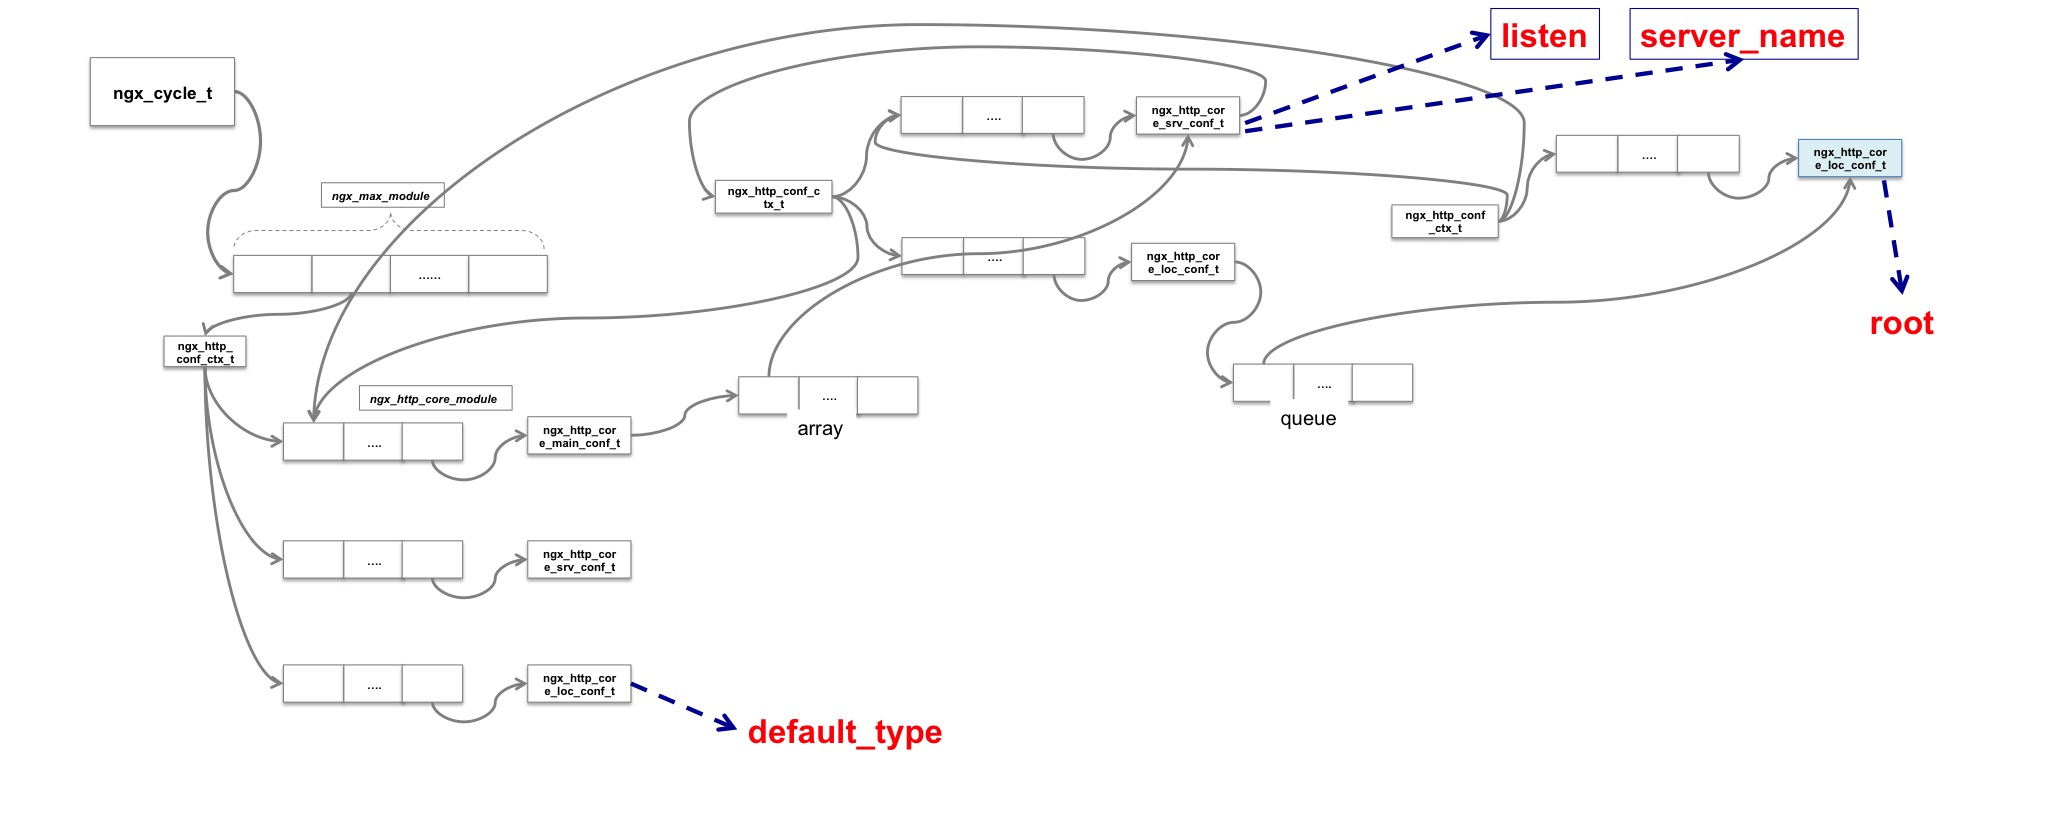
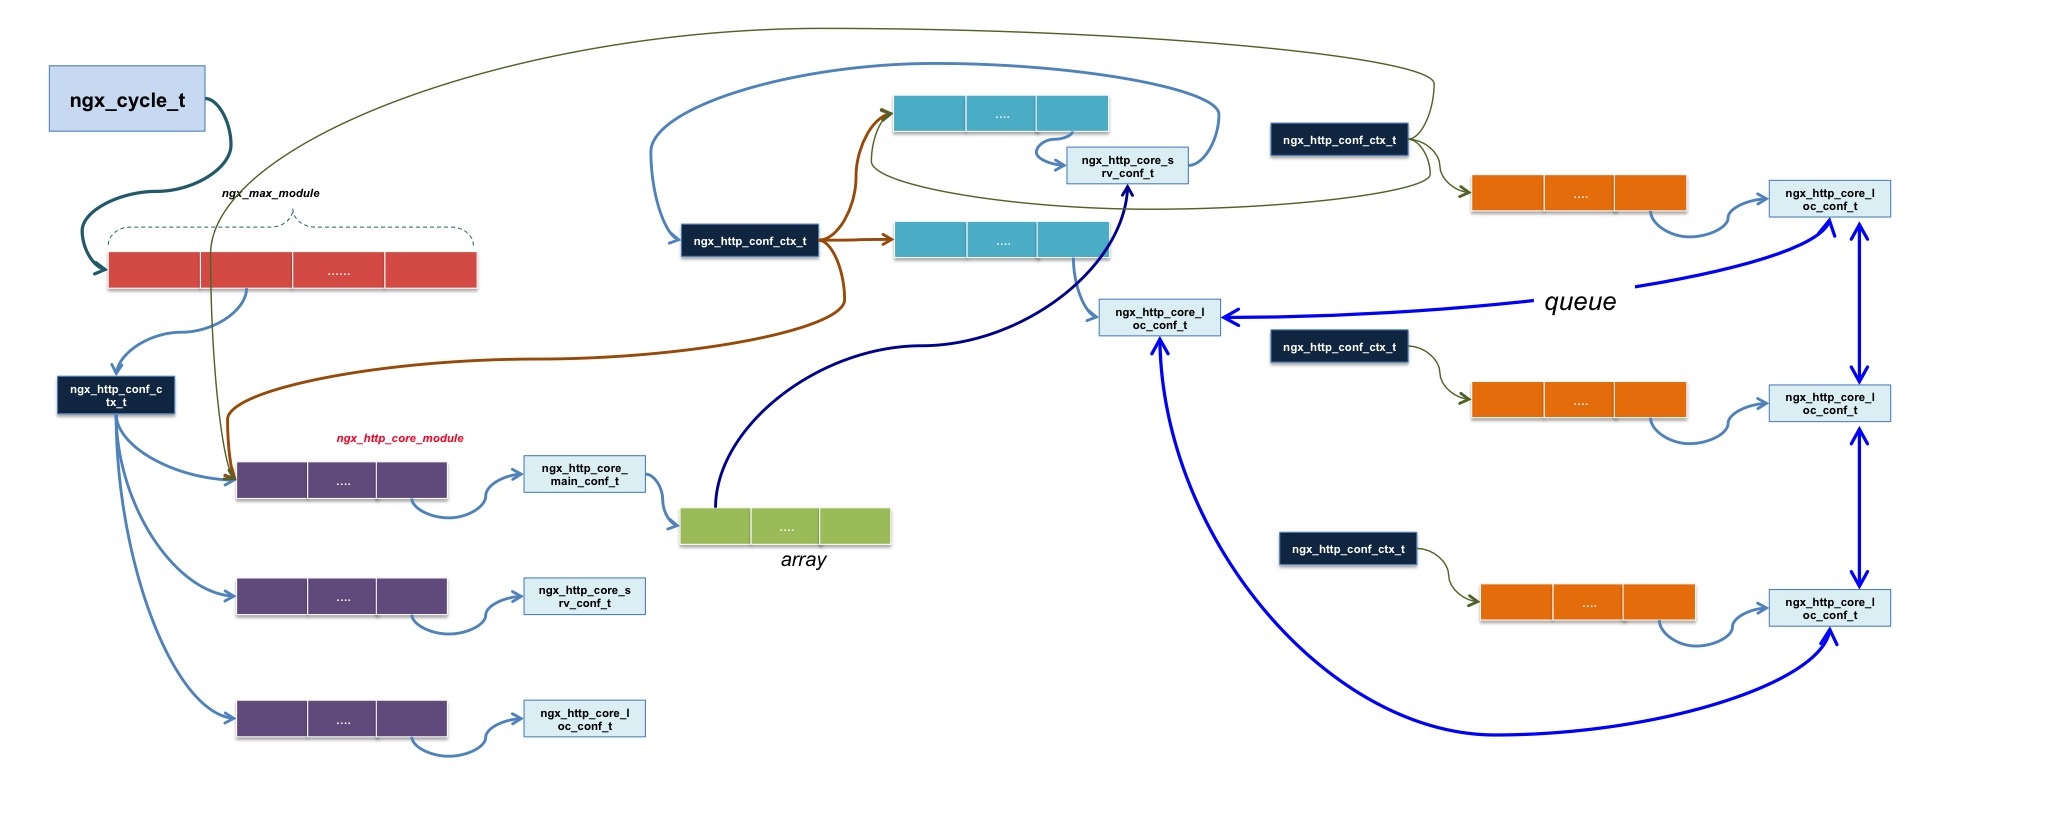
add

diff --git a/_posts/2014-10-05-nginx源码五(1)：nginx配置文件加载分析.md b/_posts/2014-10-05-nginx源码五(1)：nginx配置文件加载分析.md
@@ -143,7 +143,7 @@ keepalive_timeout  65;
     - conf.cmd_type = NGX_MAIN_CONF;
 - `5. 分析到第一个指令"worker_processes"， 遍历查找所有 NGX_CORE_MODULE 插件，指令类型是 NGX_MAIN_CONF 的指令，执行指令对应的handle`
 - `6. 对于"worker_processes"， 因为前面已经创建配置信息，配置信息获取方式如下图，所以这里可以直接更新到ngx_core_conf_t类型的结构体里`
-![ngx_http_conf](/images/nginx/ngx_conf.jpg)
+![ngx_http_conf](/images/nginx/ngx_conf1.jpg)
 
 - `7. 配置文件继续分析，分析到event指令 和 "{"`
 - `8. 调起event指令的处理handle "ngx_events_block"`
@@ -186,9 +186,14 @@ static ngx_command_t  ngx_events_commands[] = {
       NULL },
 {% endhighlight %}
 
-- 理论上，nginx可以配置无限个server，每个server又可以配置无限多个location。那么我们考虑一个请求过来，先要找到对应的server，在找到对应的location，根据location的配置确定处理逻辑；配置信息的存储实际第一步是按照下图的关系做了原始存储，那么存储的流程是什么样的呢？  我们接着上面的配置文件做分析
+- 理论上，nginx可以配置无限个server，每个server又可以配置无限多个location。那么我们考虑一个请求过来，先要找到对应的server，在找到对应的location，根据location的配置确定处理逻辑；配置信息的存储实际第一步是按照下图的关系做了原始存储，那么存储的流程是什么样的呢？  
 
-![ngx_http_conf](/images/nginx/ngx_http_conf.jpg)
+![ngx_http_conf](/images/nginx/ngx_http_conf3.jpg)
+
+- 下面一张图是对应各个分析到http{}， server{}， location{} 指令的结构图， 后面接着上面的配置文件做分析
+
+![ngx_http_conf](/images/nginx/ngx_http_conf4.jpg)
+
 
 - `12. nginx分析到http指令，执行http的指令 ngx_http_block`
 {% highlight c %}
@@ -244,7 +249,7 @@ static ngx_command_t  ngx_http_commands[] = {
 
 下面，我们在画一张图来标识用户指令配置的存储位置
 
-![ngx_http_conf](/images/nginx/ngx_conf3.jpg)
+![ngx_http_conf](/images/nginx/ngx_conf5.jpg)
 
 到这一步，我们已经知道 解析完 http{} 这个block后，存储到配置中；图中也标识出来，通过`ngx_http_core_module`对应的配置管理多个server的conf，那么下一步需要做的是
 1. 解决如何通过host快速找到server以及server的所有配置信息
@@ -252,7 +257,7 @@ static ngx_command_t  ngx_http_commands[] = {
 
 **由于配置信息分散在各个上下文节点指向的配置数组中，所以，我们要做的第一步是配置信息的merge，下图是`配置信息merge的过程`，红框就是merge好，取各个配置的地方。**
 
-![ngx_http_conf](/images/nginx/ngx_conf4.jpg)
+![ngx_http_conf](/images/nginx/ngx_conf6.jpg)
 
 一个server对应理论上无限个location，我们看到前面的图示，location信息通过queue来串连，在接收到request的时候，如果依次去匹配查找location，性能肯定会存在问题，对此，nginx做了一个处理
 - 对于精确匹配和前缀匹配，构建一个三叉查找树

diff --git a/_posts/2014-10-03-nginx源码三(3)：nginx数据结构(ngx_queue_t).md b/_posts/2014-10-03-nginx源码三(3)：nginx数据结构(ngx_queue_t).md
@@ -8,6 +8,7 @@ category: nginx
 
 ## 一.基础数据结构
 
+队列是一种比较常用的数据结构，主要用于实现先进先出
 
 
 
